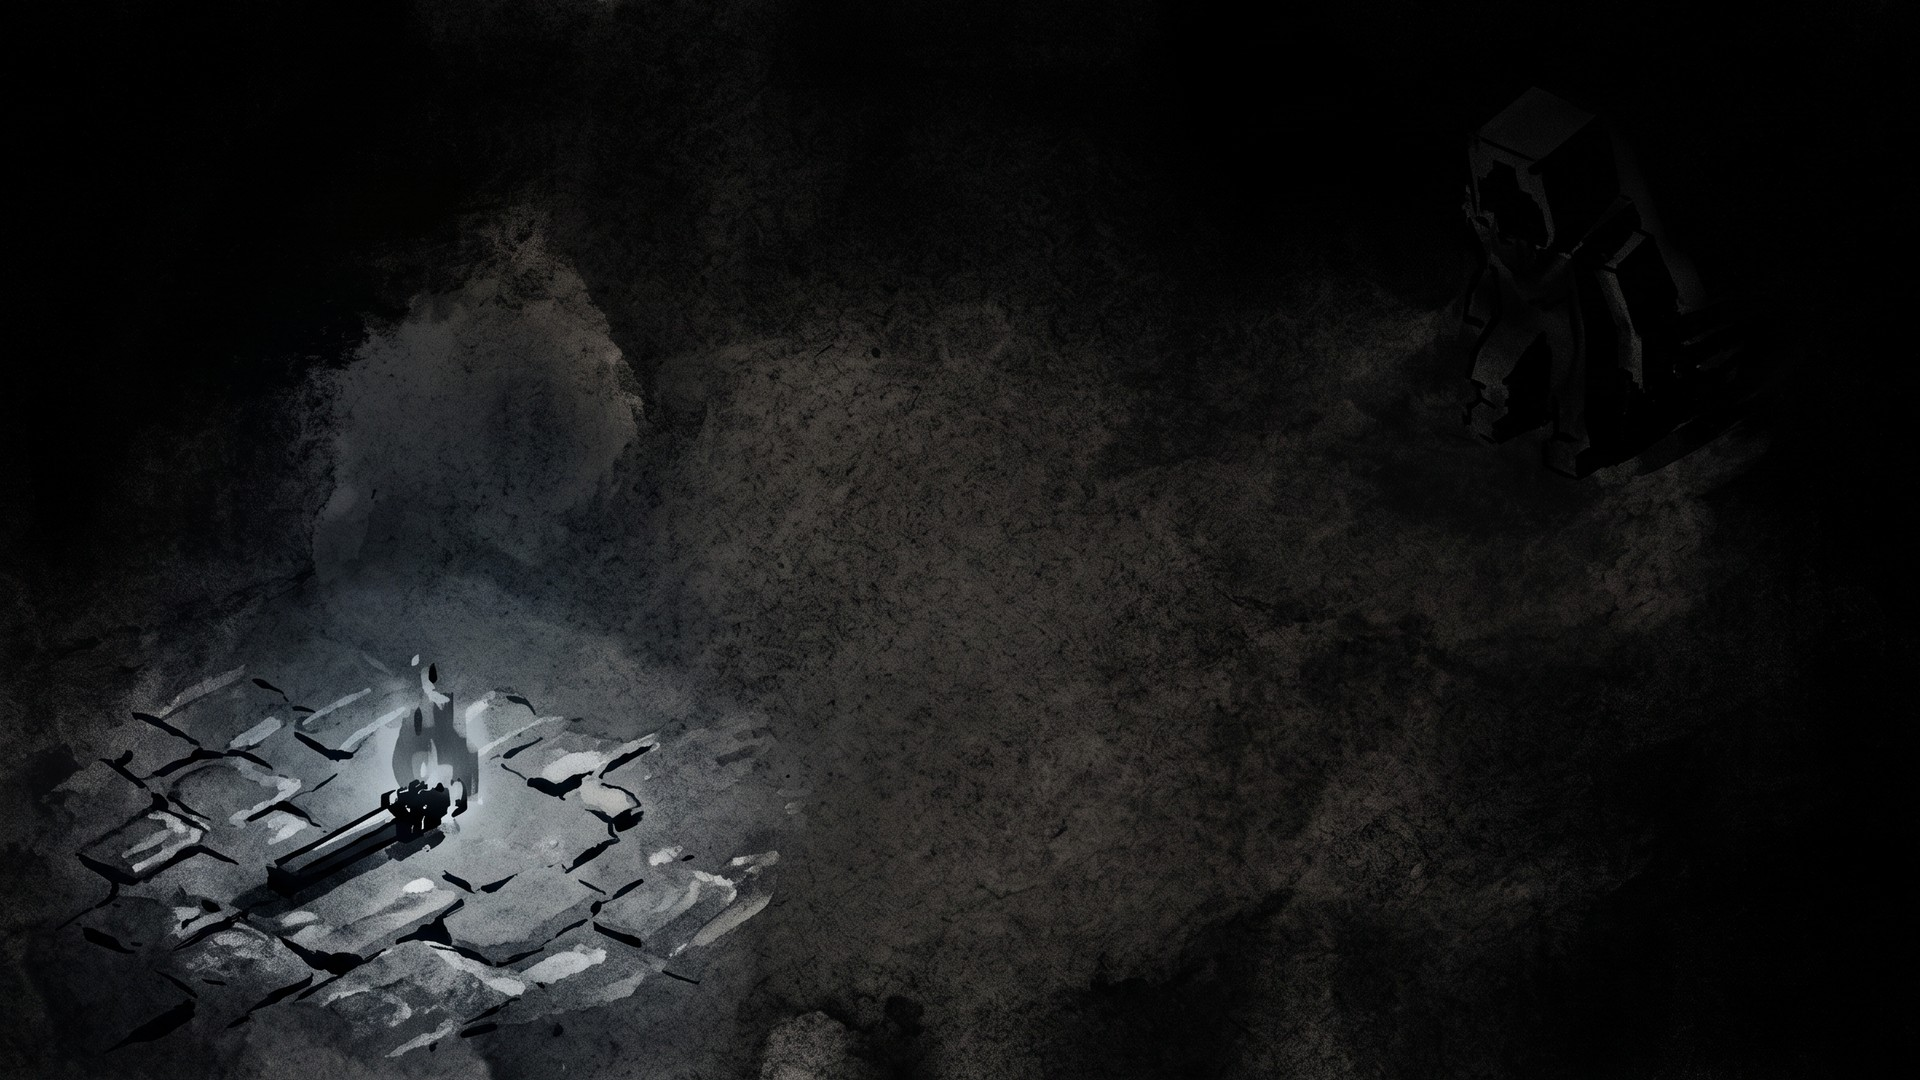
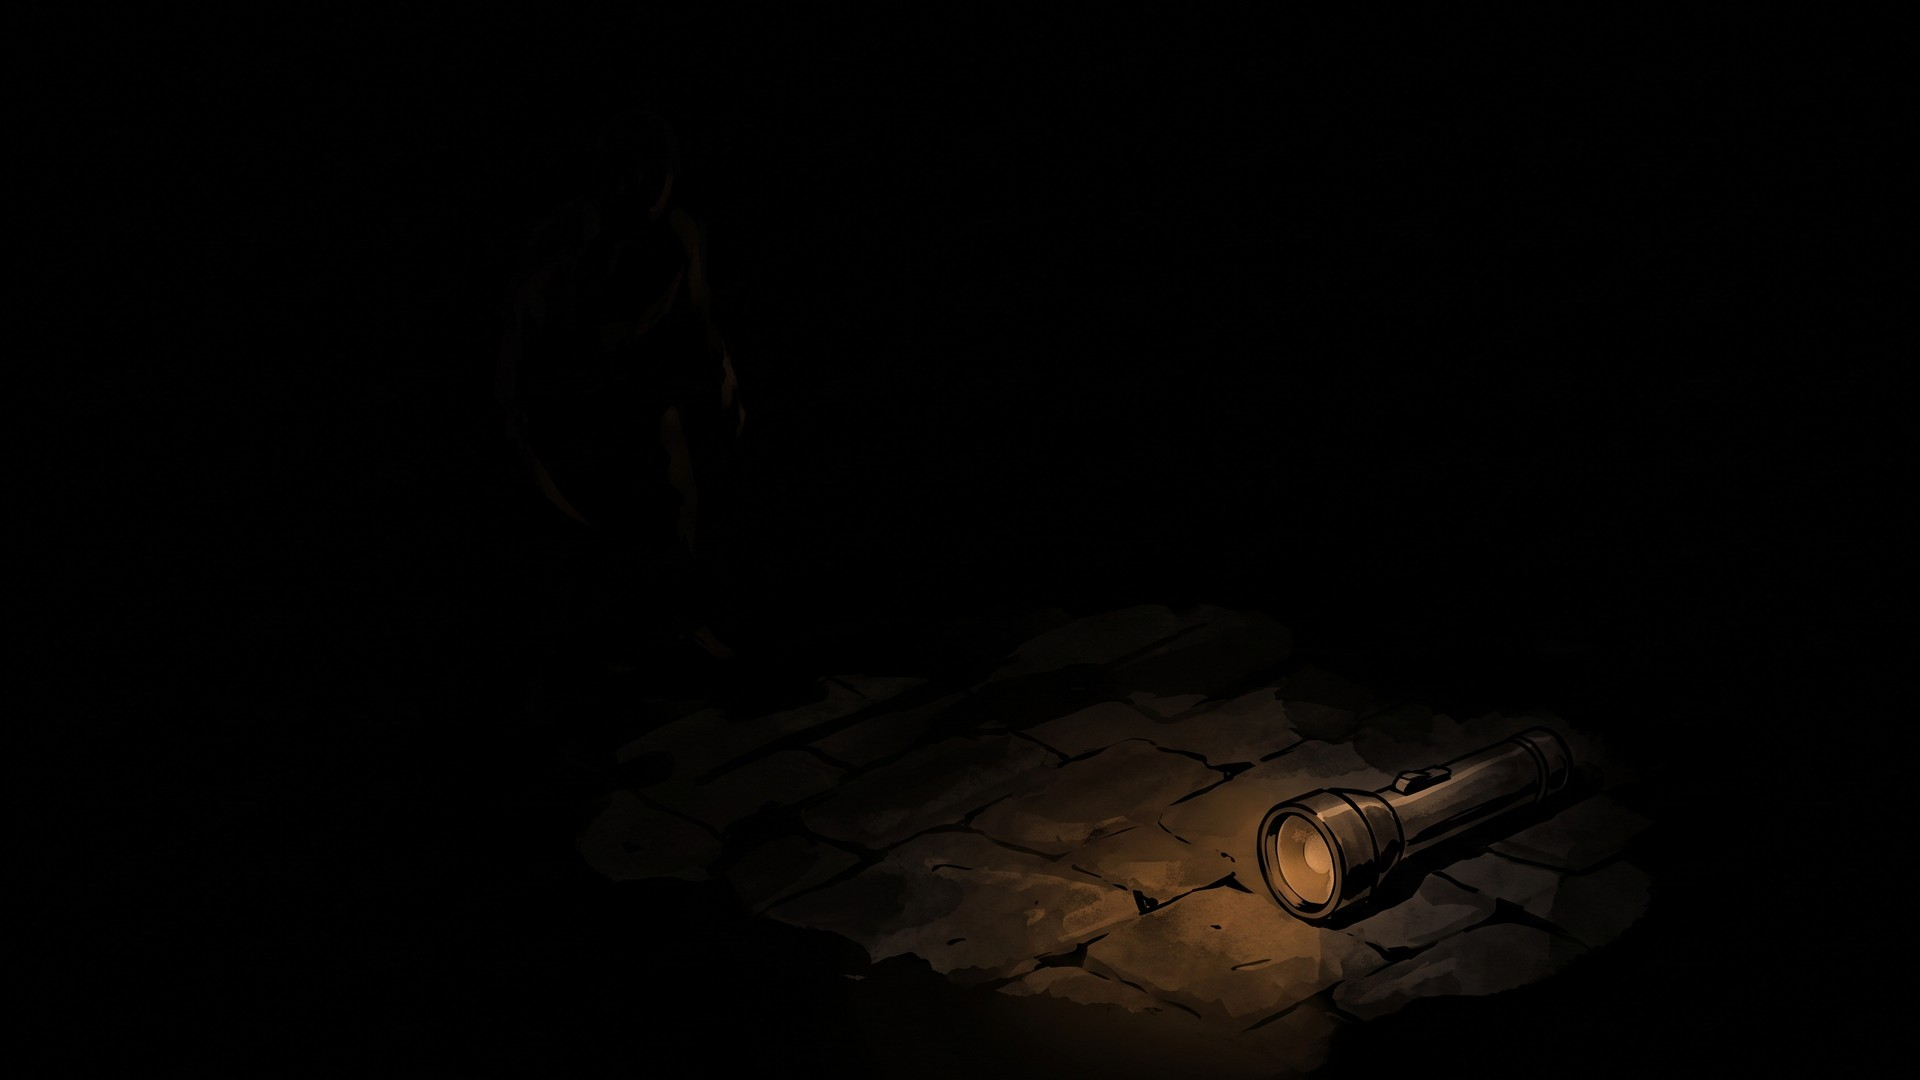
Pas 6 — les quatre images du DA à flamme remplacées par la lampe électrique
Séquence de fin de la session cloud (15:08, ordres 36 à 41). Mêmes noms, mêmes tailles, aucun code touché.
Sources livrées par « ISO Assets Sonnet » (branche claude/iso-assets-gemini-boards-4e8d33) :
- assets/ui/fond_hub_iso.jpg (accueil et hub) : hub_bunker_a_v2.jpg, 2752×1536, réduit à 1920×1071 dans le
  même rapport par tools/preparer_habillage.py fond, la chaîne de l'original ;
- assets/ui/carte_soiree_fond.png : carte_soiree_fond_v2.png, déjà 1080×1350 ;
- assets/ui/fin_victoire.jpg : fin_victoire_v2_1920.jpg, retouche de l'originale, estampe et composition
  gardées, lampe en main (la v2 d'origine était refusée par la session cloud) ;
- assets/ui/fin_defaite.jpg : fin_defaite_v2_1920.jpg.
Les deux affiches ont été préparées par preparer_habillage.py fin, en 1920×1080.

Avant la pose : les premières v2 des affiches, à 2816×1536 et 2752×1536, étaient refusées pour mauvais
rapport, et renvoyées à ISO Assets.
test_habillage vert tel quel (tailles épinglées).

Piège payé, consigné dans la ROADMAP : remplacer le fichier ne suffit pas.
- Les premières captures après la pose montraient encore les anciennes images, torche à flamme comprise.
  Le jeu lit la texture cuite dans .godot/imported/, et le lot lancé en même temps testait lui aussi les
  anciennes.
- test_habillage ne pouvait pas le voir : il n'épingle que les tailles.
- Lot et captures arrêtés, puis `godot --headless --path . --import`, puis tout repris.
[…]

diff --git a/docs/ROADMAP.md b/docs/ROADMAP.md
@@ -25030,6 +25030,41 @@ au nord-ouest et touche le mur ouest, et l'impact tombe dans le coin haut gauche
 **Un lot exact** : le fond du hub et celui de la carte de soirée, déjà remplacés pour le pas 6, ont été remis à
 leur version commitée le temps du lot de ce commit. Ils reviennent au commit du pas 6.
 
+**Pas 6 — la lampe électrique à la place des torches à flamme dans les images du DA** (séquence de fin, ordres
+36 à 41 de la session cloud, 2026-09-15). **Quatre images, pas trois** : `hub_bunker_a` était installée deux fois,
+en fond de l'accueil et du hub (`fond_hub_iso.jpg`), et recadrée en 4:5 pour la carte de soirée
+(`carte_soiree_fond.png`). Les dix portraits de classe ne portent aucune torche. `killcam_tireur_01` n'a jamais été
+installée : le code ne la cite qu'en commentaire. Mêmes noms, mêmes tailles (épinglées par `test_habillage`),
+aucun code touché. Sources livrées par « ISO Assets Sonnet » :
+- **Fond du hub** : `hub_bunker_a_v2.jpg`, 2752×1536, réduit par `tools/preparer_habillage.py fond`, au même
+  rapport que 1920×1071 à une ligne près.
+- **Carte de soirée** : `carte_soiree_fond_v2.png`, déjà 1080×1350.
+- **Les deux affiches** : `fin_victoire_v2_1920.jpg` et `fin_defaite_v2_1920.jpg`, faites par `preparer_habillage.py
+  fin`. La victoire est une retouche de l'originale, gardant l'estampe et la composition, avec une lampe en
+  main.
+- **Refus en chemin** : les premières v2 des affiches, livrées en 2816×1536 et 2752×1536, n'avaient pas le
+  rapport attendu et n'ont pas été posées. La session cloud a en outre refusé la première `fin_victoire_v2`
+  (style rompu).
+- ⚠ **Piège de lecture** : `fin_victoire.jpg` porte sa figure à GAUCHE, mais l'affiche de fin la RETOURNE à l'écran
+  pour laisser la place au titre. Une capture la montre donc à droite, et une revue faite sur capture a cru la
+  composition inversée.
+- ⚠ **Piège payé : remplacer un fichier ne change rien au jeu tant que Godot ne l'a pas réimporté.** Le jeu, les
+  suites et le photographe lisent la texture cuite dans `.godot/imported/`, pas le JPEG. Premières captures après
+  la pose (vers 16:07) : accueil, hub et carte de soirée montraient encore les ANCIENNES images, torche à flamme
+  comprise, et le lot lancé en même temps testait lui aussi les anciennes. `test_habillage` ne l'a pas vu : il
+  épingle les TAILLES, identiques par consigne. Remède : `godot --headless --path . --import` après toute
+  image remplacée, AVANT le lot et les captures. Le cache n'est pas versionné ; chaque arbre réimporte de
+  lui-même à l'ouverture de l'éditeur, mais pas un `godot --path .` lancé en ligne de commande.
+- **Vérifié à l'écran après réimport**, par le photographe dans un foyer neuf (plans `accueil`, `affiche`,
+  `soiree`) :
+  - l'accueil a sa pièce iso en fond ;
+  - l'affiche de victoire montre la figure lampe en main, retournée à droite par le jeu ;
+  - la carte de soirée montre la lampe posée.
+  Les plans `verdict-victoire` / `verdict-defaite` montrent le SALON titré, pas l'affiche. Et aucun plan ne montre
+  l'affiche de DÉFAITE : l'écran partagé dit toujours « JOUEUR n GAGNE ». Elle attend un plan du photographe,
+  dans un commit à part.
+- Lot complet vert à 16:16, après réimport : 127 OK en 413 s.
+
 ### Ce qui attend Adrien — jalon H15
 
 Go / no-go ; ou la voie « vitrines seulement » ; tangage (60-65°), lacet

diff --git a/docs/JOURNAL_SESSIONS.md b/docs/JOURNAL_SESSIONS.md
@@ -5589,3 +5589,10 @@ dans `docs/iso/loupe/`. Temps d'image de la bande, en temps réel : 9,37 / 9,84 
 - `--fixed-fps` est absent de `get_cmdline_args` ;
 - à ×1,8, tout mur à l'écran est à portée de torche.
 Lot complet vert à 16:04 : 127 OK en 410 s.
+
+**Pas 6 — les images du DA à lampe électrique, 2026-09-15 vers 16:10.** Session « Iso 1 Opus ». Quatre fichiers
+remplacés sous leurs noms et tailles, aucun code : `fond_hub_iso.jpg` (accueil et hub), `carte_soiree_fond.png`,
+`fin_victoire.jpg`, `fin_defaite.jpg`. Les sources sont d'ISO Assets. Les affiches livrées au mauvais rapport ont
+été refusées puis refaites par `preparer_habillage.py fin`. Piège : l'affiche de fin retourne l'image à l'écran.
+Piège payé : Godot lit la texture importée, et les premières captures et le premier lot voyaient encore les
+anciennes images. Arrêt, `godot --headless --path . --import`, reprise. Lot complet vert à 16:16 : 127 OK en 413 s.
